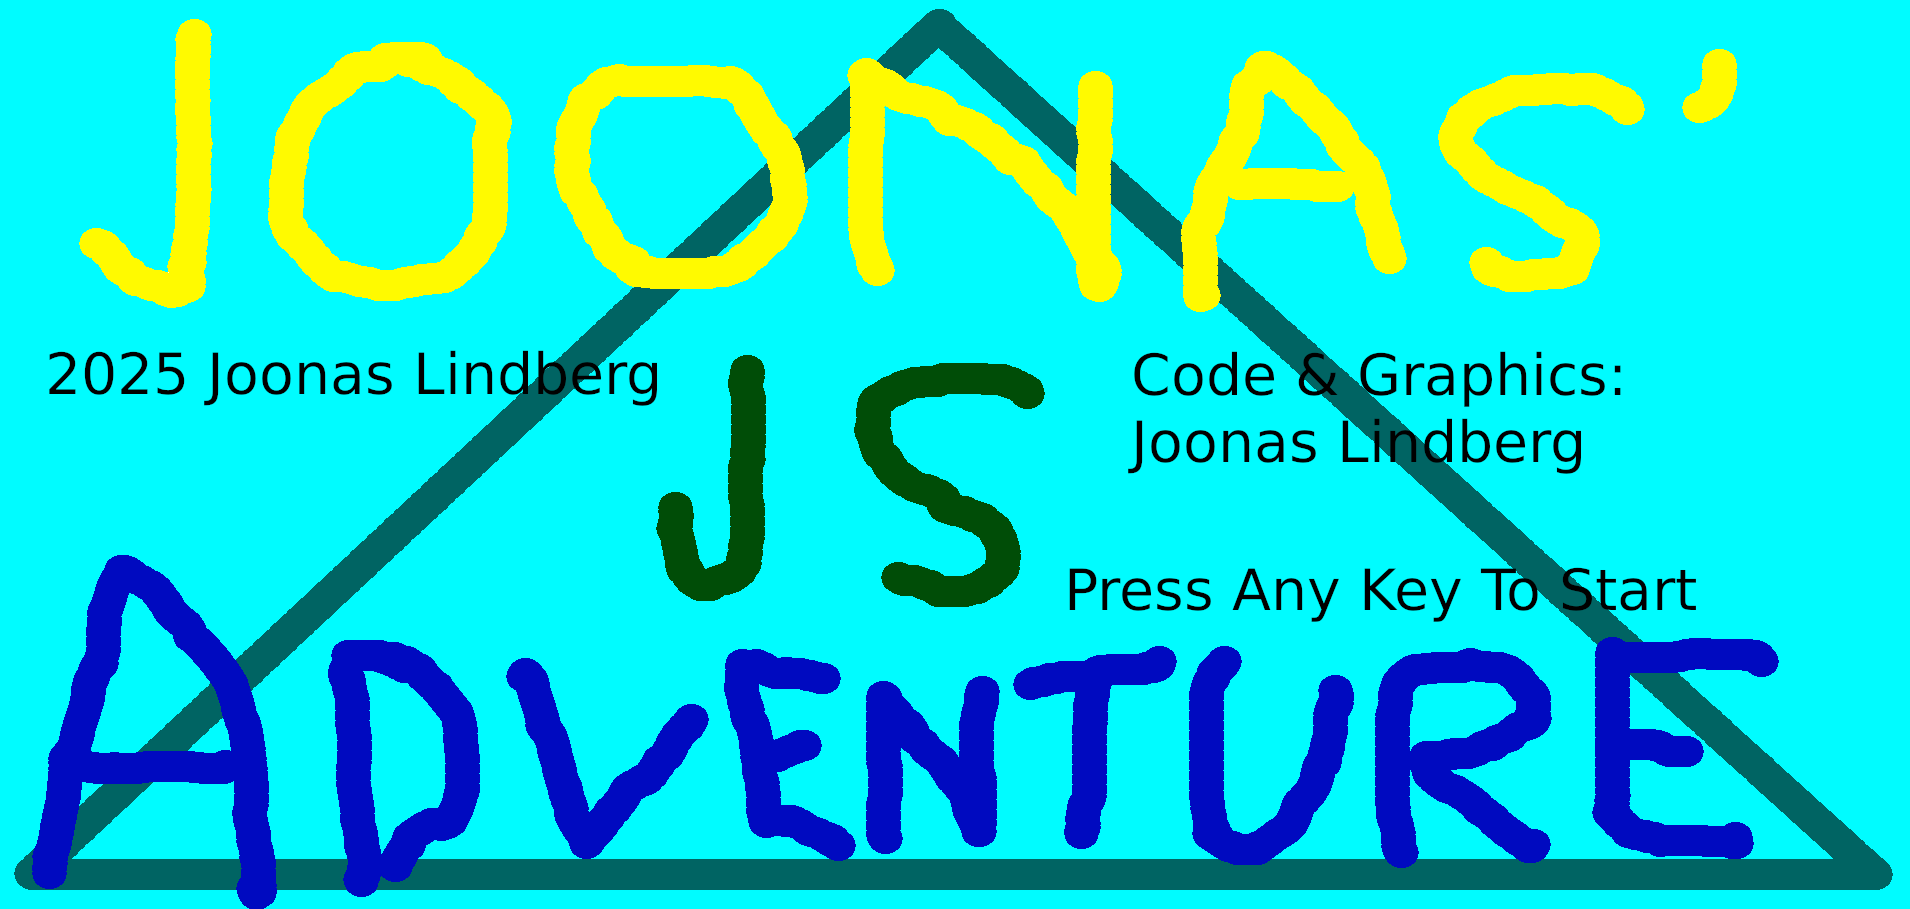
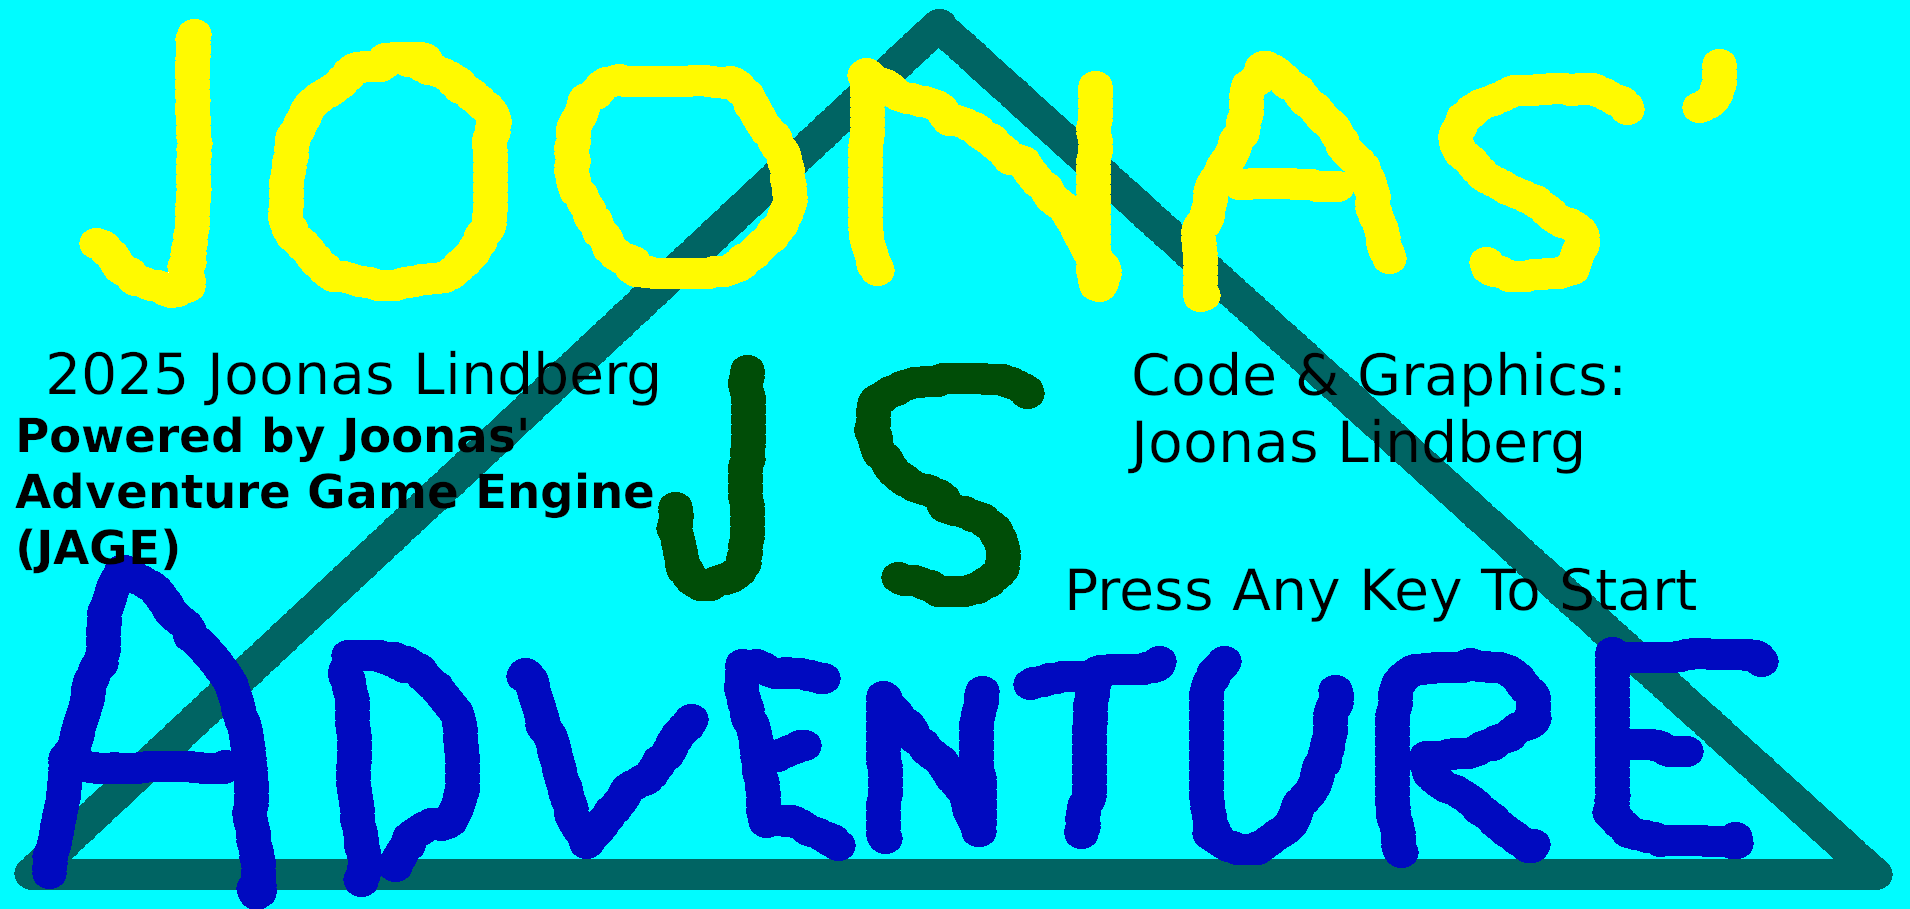
Added text to title pic to make it really clear that this game is powered by my own JAGE engine. Added plot text to the start screen of the game.

Changed region(s): [[0.0, 0.462, 0.3398, 0.6469]]

diff --git a/joonasjsadventure.js b/joonasjsadventure.js
@@ -1733,6 +1733,7 @@ function logicRoom002(enteredWords) {
 			) {
 				if(hasItem(4)) {
 					messageWindowCentered("As you water the rock with your watering can,\nsomething strange happens to it.\nThe rock transforms into a human being!", false);
+					score += 10;
 				}
 				else {
 					messageWindowCentered("How are you going to do that?", false);
@@ -2085,7 +2086,7 @@ function updateStatusBar() {
 		}
 	}
 	ctx.putImageData(imgData, 0, 0);
-	putTextOnScreen(30, 0, "Score: " + score + " of 500", 0);
+	putTextOnScreen(30, 0, "Score: " + score + " of 93", 0);
 	putTextOnScreen(765, 0, "Joonas' JS Adventure", 0);
 }
 
@@ -2532,7 +2533,7 @@ function play(delta)
 	else {
 		if(startedGame) {
 			startedGame = false;
-			messageWindowCentered("Joonas' JS Adventure is a Work In Progress.\nI hope you'll enjoy this game.\n2025 Joonas Lindberg.\n\nThis project is free and open source.\nFor the latest version of the project, please use the GitHub repository:\ngithub.com/JoonasTMS86/joonas-jsadventure", false);
+			messageWindowCentered("Your goal in this game is to unlock the doorway to a mysterious realm.\nThe key to this realm is held by a famous stand up comedian, but\nunfortunately, he has mysteriously disappeared. Rumor has it that the\ncomedian has been transformed into an inanimate object by a crazy\nwizard.\nYou need to find the inanimate object which is actually the famous\nstand up comedian.\nOnce you find him, he will give you good advice and the key to the\nmysterious realm. Good luck!", false);
 		}
 		else if(!waitingForEnterPress) {
 			drawAllSprites();
